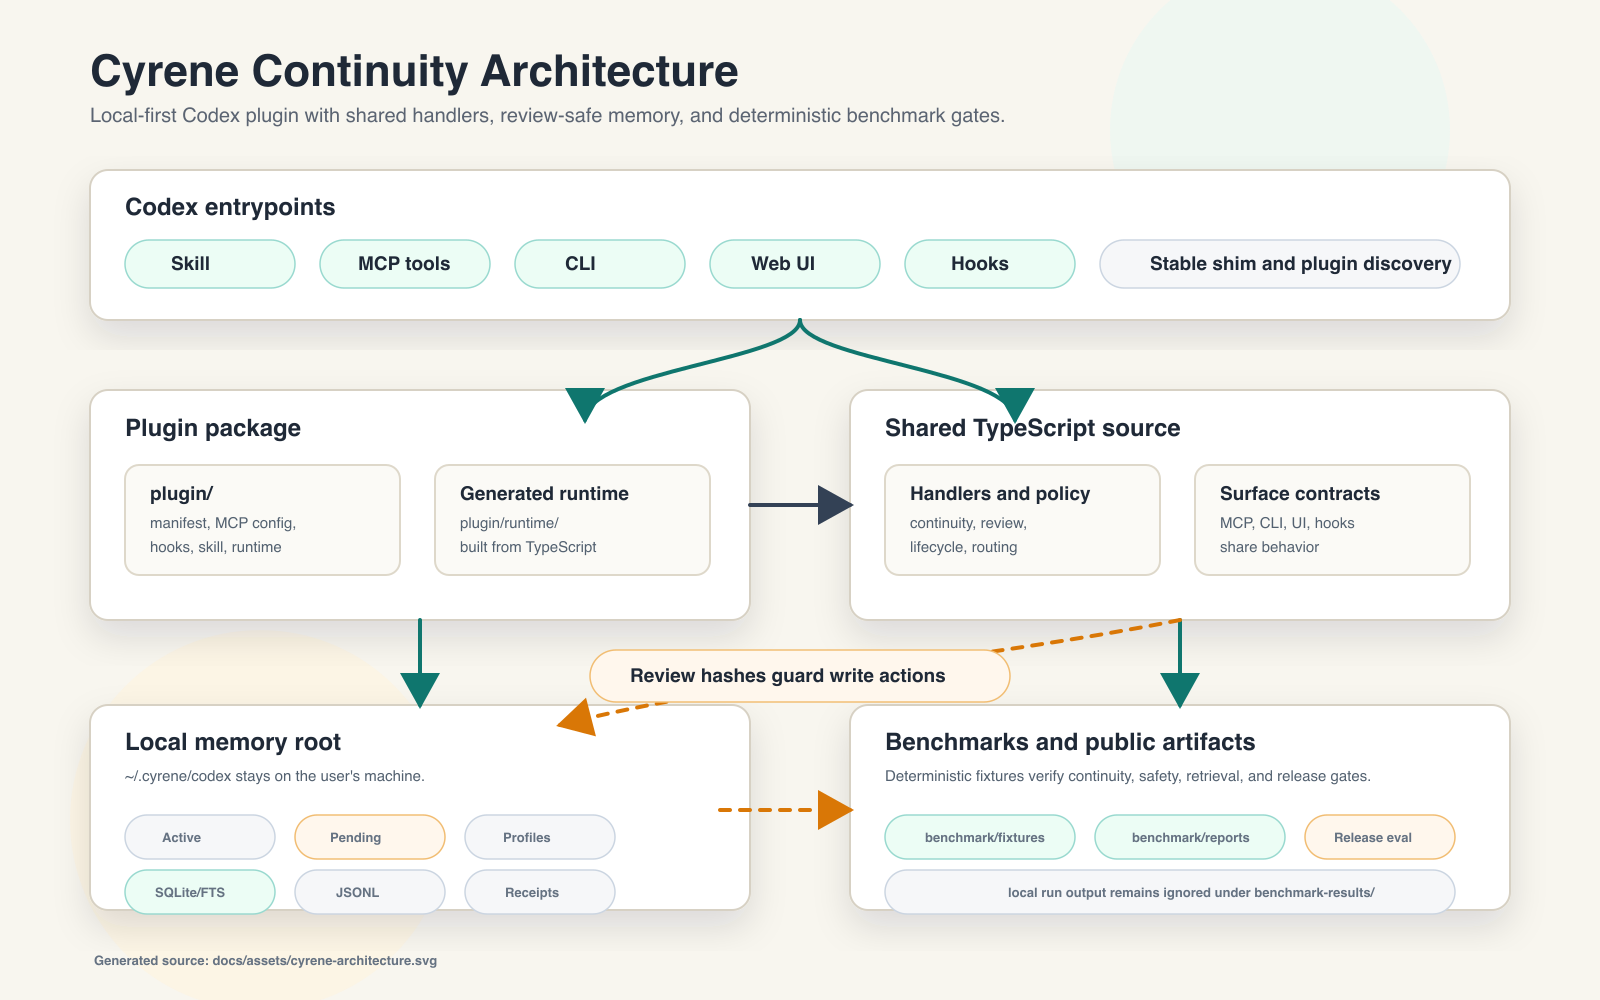
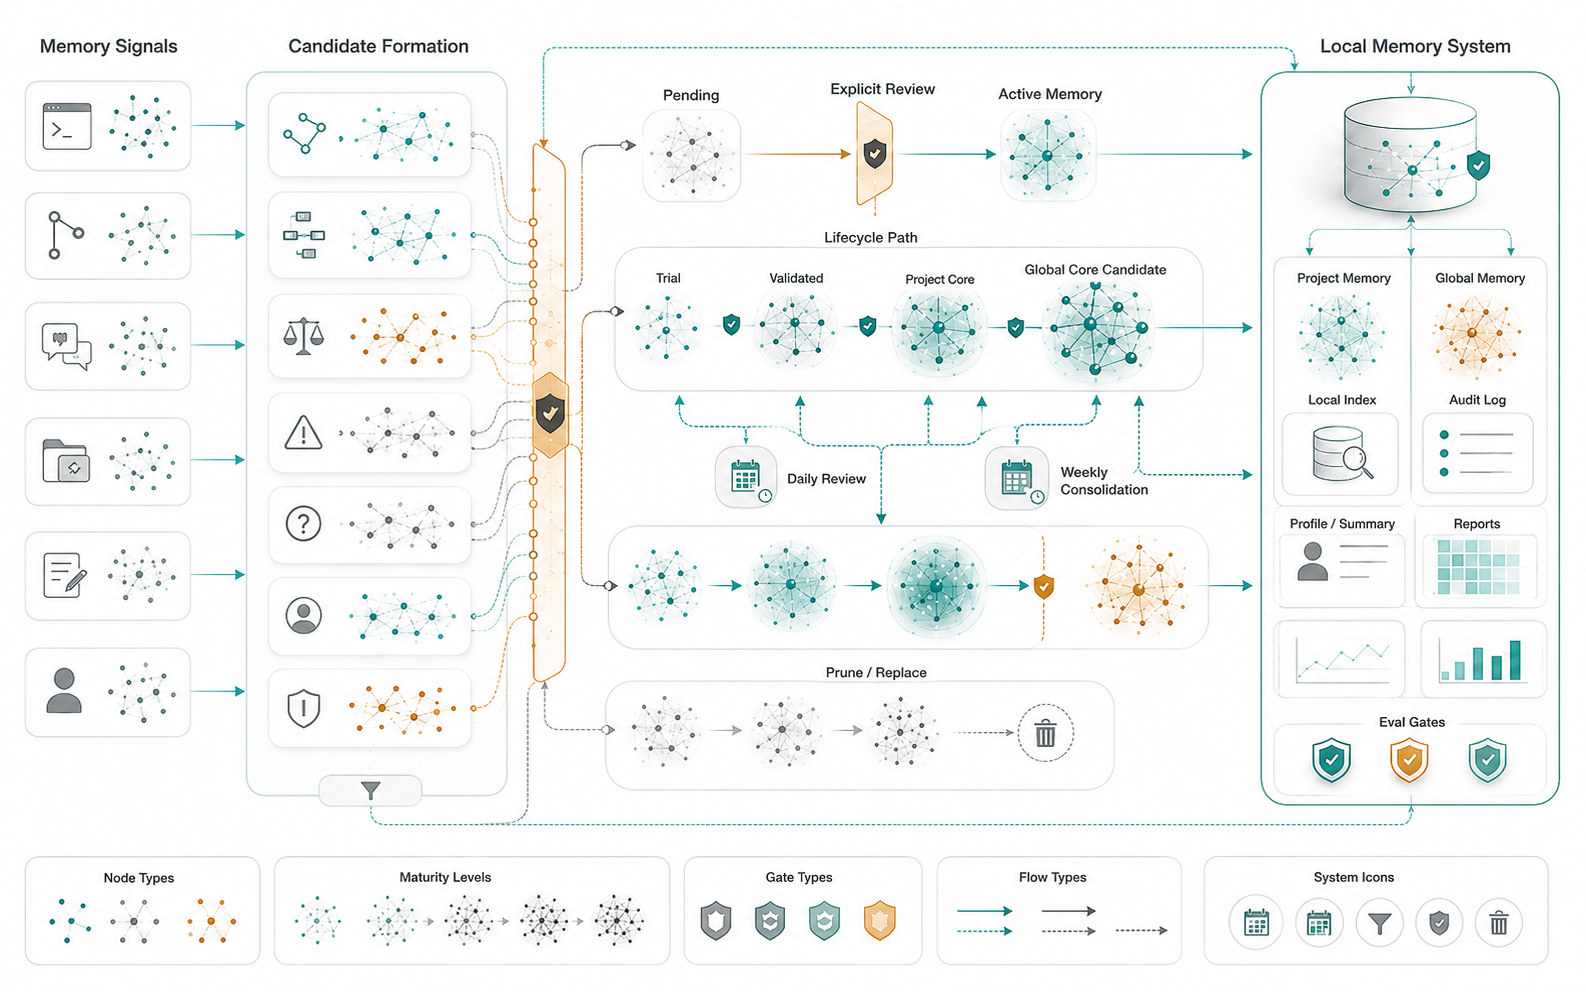
Refresh docs assets

diff --git a/docs/assets/README.md b/docs/assets/README.md
@@ -5,5 +5,4 @@ This directory contains public documentation images.
 Assets:
 
 - `cyrene-readme-hero.png`: README hero image.
-- `cyrene-architecture.svg`: editable architecture diagram source.
-- `cyrene-architecture.png`: rendered architecture diagram for Markdown.
+- `cyrene-architecture.png`: architecture diagram for Markdown.
